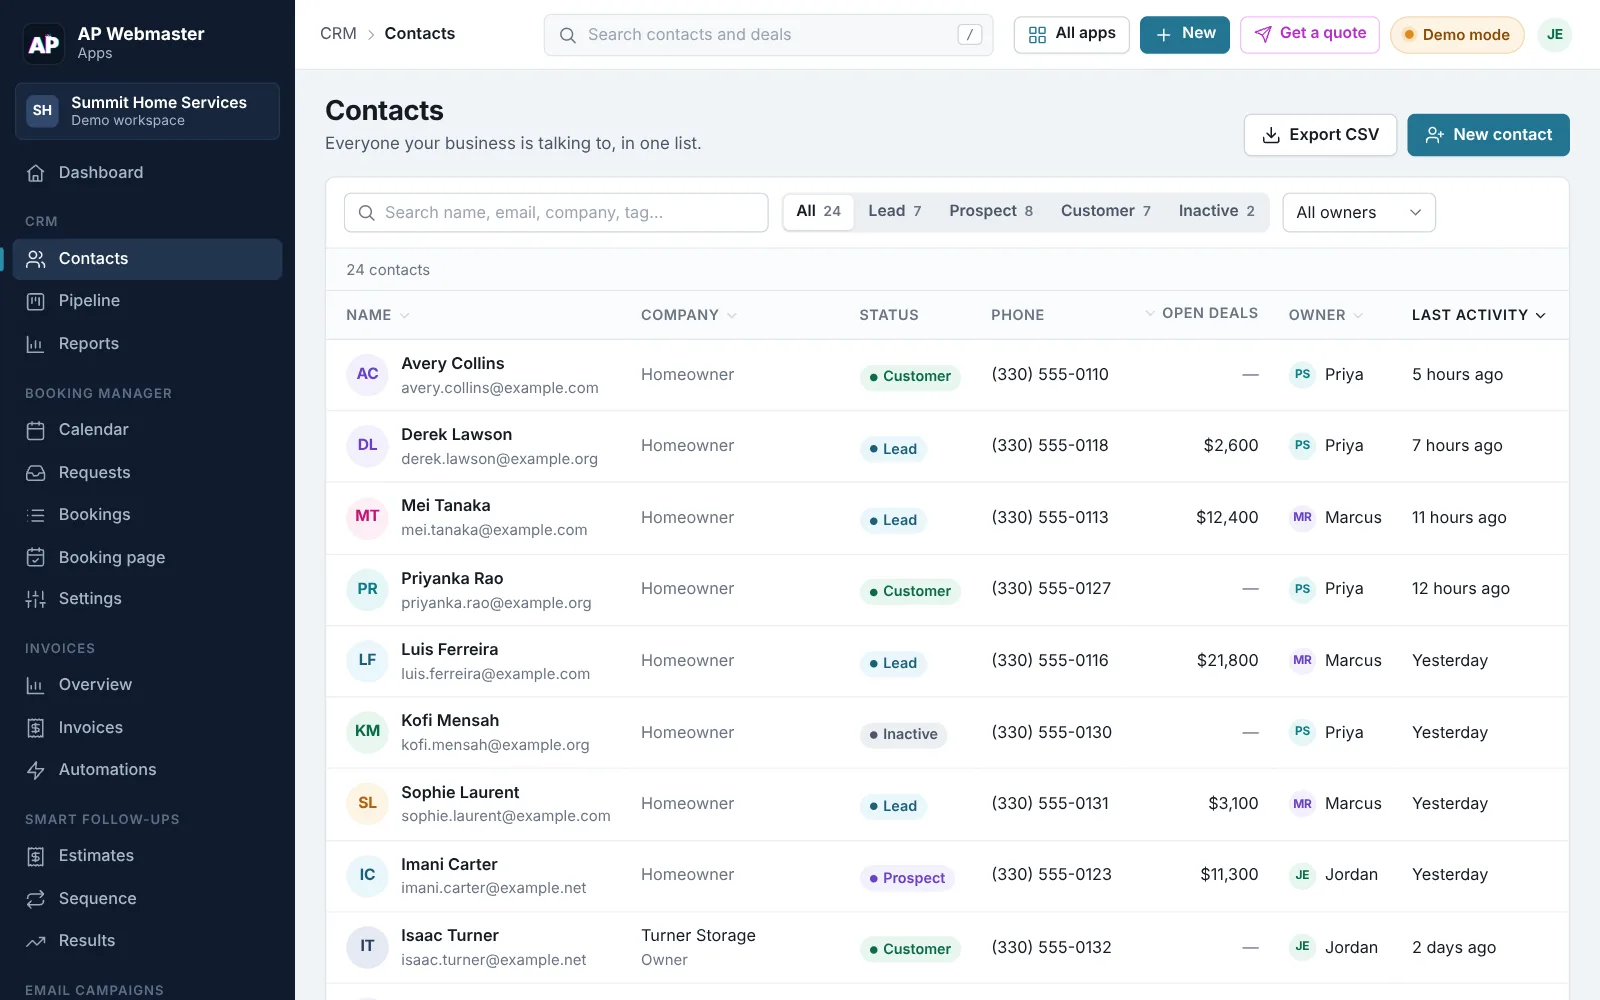
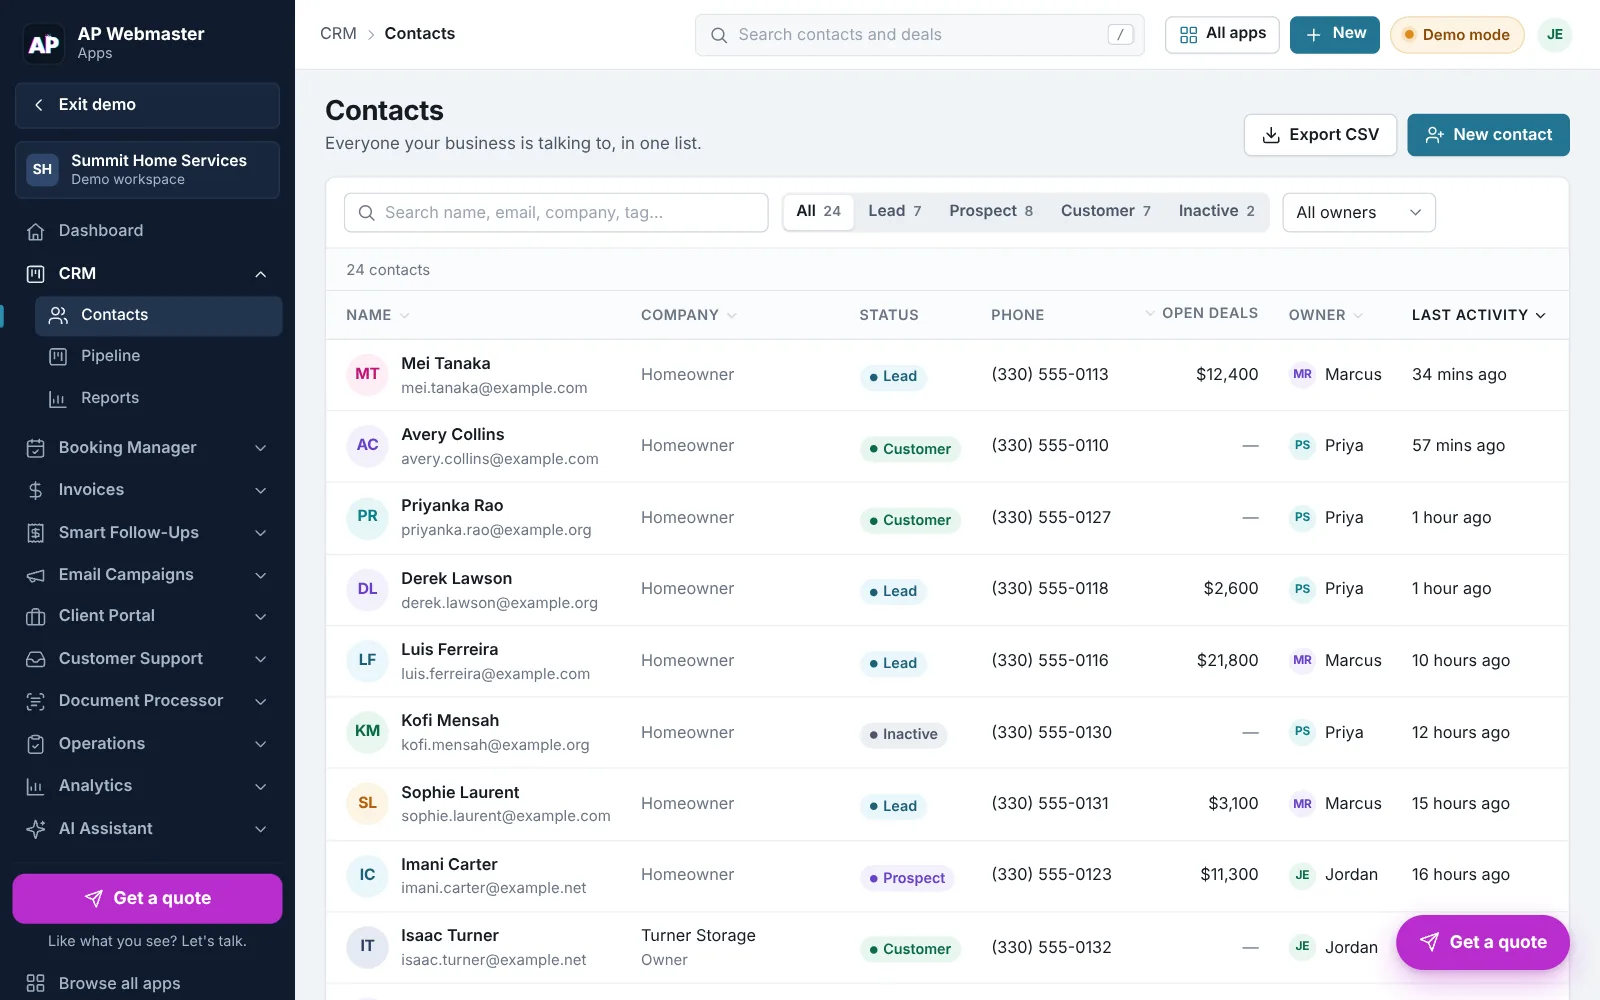
Demo: app dropdowns in the sidebar, Exit demo, Get a quote buttons, endless sample bookings
- Sidebar groups each app into a dropdown; only the current app opens
- Exit demo sits at the top of the sidebar, and as an Exit chip on phones
- Get a quote pinned at the sidebar bottom plus a floating button
- Booking calendar fills any empty work day with sample visits, so every week has entries

diff --git a/assets/js/core/shell.js b/assets/js/core/shell.js
@@ -17,6 +17,7 @@ let dashboardView = null;
 let root;
 let current = null;
 let renderQueued = false;
+let navSlug = null;
 
 /* ---------------- Module registry ---------------- */
 
@@ -64,7 +65,7 @@ function navItems() {
 function sidebar() {
   const items = navItems();
   const live = items.filter((i) => i.group);
-  const groups = [...new Set(live.map((i) => i.group))];
+  const slugs = [...new Set(live.map((i) => i.slug))];
   const soon = (CONFIG.apps || []).filter((a) => a.status !== 'demo');
   const b = store.get().business;
   return html`<aside class="apwa-sidebar" id="apwa-sidebar" aria-label="Main navigation">
@@ -73,21 +74,28 @@ function sidebar() {
       <span class="apwa-brand__mark" aria-hidden="true"><img src="${CONFIG.assetsUrl}assets/img/ap-mark.png" alt=""></span>
       <span class="apwa-brand__text"><strong>AP Webmaster</strong><span>Apps</span></span>
     </div>
+    <a class="apwa-exit" href="${suiteUrl()}" title="Exit demo">${icon('chevron-left')}<span>Exit demo</span></a>
     <div class="apwa-workspace" title="Fictional demo business">
       <span class="apwa-workspace__mark" aria-hidden="true">${b.name.split(' ').map((w) => w[0]).slice(0, 2).join('')}</span>
       <span class="apwa-workspace__text"><strong>${b.name}</strong><span>Demo workspace</span></span>
     </div>
     <nav class="apwa-nav">
       <a class="apwa-nav__item" data-nav="home" href="${items[0].href}" title="Dashboard">${icon('home')}<span>Dashboard</span></a>
-      ${groups.map((g) => html`<div class="apwa-nav__group">${g}</div>
-        ${live.filter((i) => i.group === g).map((i) => html`<a class="apwa-nav__item" data-nav="${i.id}" href="${i.href}" title="${i.label}">${icon(i.icon)}<span>${i.label}</span></a>`)}`)}
+      ${slugs.map((slug) => {
+        const m = appMeta(slug) || {};
+        return html`<details class="apwa-nav__app" data-app="${slug}">
+          <summary class="apwa-nav__item apwa-nav__head" title="${m.shortName}">${icon(m.icon || 'grid')}<span>${m.shortName}</span>${icon('chevron-down', 'apwa-nav__chev')}</summary>
+          <div class="apwa-nav__sub">${live.filter((i) => i.slug === slug).map((i) => html`<a class="apwa-nav__item" data-nav="${i.id}" href="${i.href}" title="${i.label}">${icon(i.icon)}<span>${i.label}</span></a>`)}</div>
+        </details>`;
+      })}
       ${soon.length ? html`<div class="apwa-nav__group">More apps</div>
         ${soon.map((a) => html`<a class="apwa-nav__item is-soon" data-nav="app:${a.slug}" href="${router.href(`${a.slug}/`)}" title="${a.name} (coming soon)">${icon(a.icon)}<span>${a.shortName || a.name}</span><em class="apwa-soon">Soon</em></a>`)}` : ''}
     </nav>
     <div class="apwa-sidebar__foot">
+      <a class="apwa-sidequote" href="${quoteHref()}" data-quote title="Get a quote">${icon('send')}<span>Get a quote</span></a>
+      <p class="apwa-sidequote__note">Like what you see? Let's talk.</p>
       <button type="button" class="apwa-nav__item" data-action="launcher" aria-haspopup="dialog" title="Browse all apps">${icon('grid')}<span>Browse all apps</span></button>
       <button type="button" class="apwa-nav__item" data-action="reset" title="Reset demo data">${icon('refresh')}<span>Reset demo data</span></button>
-      <a class="apwa-nav__item apwa-nav__item--exit" href="${suiteUrl()}" title="Exit demo">${icon('log-out')}<span>Exit demo</span></a>
     </div>
   </aside>`;
 }
@@ -105,6 +113,7 @@ function topbar() {
     <div class="apwa-topbar__left">
       <a class="apwa-topbar__back apwa-show-phone" href="#" hidden aria-label="Back">${icon('chevron-left')}</a>
       <button type="button" class="apwa-iconbtn apwa-topbar__menu apwa-show-phone" data-action="drawer" aria-label="Open menu" aria-controls="apwa-sidebar" aria-expanded="false">${icon('menu')}</button>
+      <a class="apwa-topbar__exit apwa-show-phone" href="${suiteUrl()}" aria-label="Exit demo">${icon('chevron-left')}<span>Exit</span></a>
       <nav class="apwa-crumbs" aria-label="Breadcrumb"></nav>
     </div>
     <div class="apwa-search apwa-hide-phone" role="search">
@@ -117,7 +126,6 @@ function topbar() {
       <button type="button" class="apwa-btn apwa-btn--secondary apwa-btn--sm apwa-topbar__apps" data-action="launcher" aria-haspopup="dialog" aria-label="Browse all apps">${icon('grid')}<span class="apwa-hide-phone">All apps</span><span class="apwa-topbar__apps-short">Apps</span></button>
       <button type="button" class="apwa-iconbtn apwa-show-phone" data-action="search" aria-label="Search">${icon('search')}</button>
       <button type="button" class="apwa-btn apwa-btn--primary apwa-btn--sm apwa-hide-phone" data-action="quick-add" aria-haspopup="menu" aria-expanded="false">${icon('plus')}<span>New</span></button>
-      <a class="apwa-btn apwa-btn--sm apwa-topbar__quote apwa-hide-phone" href="${quoteHref()}" data-quote>${icon('send')}<span>Get a quote</span></a>
       <button type="button" class="apwa-demo-pill" data-action="demo-info" aria-haspopup="dialog">
         <i aria-hidden="true"></i><span>Demo<span class="apwa-hide-phone"> mode</span></span>
       </button>
@@ -159,6 +167,7 @@ export function mount(container) {
     ${tabbar()}
     <div class="apwa-drawer-scrim" data-action="drawer-close" hidden></div>
     <button type="button" class="apwa-fab apwa-show-phone" hidden></button>
+    <a class="apwa-quotefab" href="${quoteHref()}" data-quote>${icon('send')}<span>Get a quote</span></a>
   </div>`;
 
   bindGlobal();
@@ -201,8 +210,8 @@ function render(ev) {
   }
   current = { ...v, slug: r.slug, navId: r.navId || (r.slug ? `app:${r.slug}` : 'home') };
 
-  const quote = $('[data-quote]', root);
-  if (quote) quote.href = quoteHref(r.slug);
+  $$('[data-quote]', root).forEach((q) => { q.href = quoteHref(r.slug); });
+  root.firstElementChild.dataset.app = r.slug || 'home';
 
   // Document title.
   const meta = appMeta(r.slug);
@@ -255,8 +264,13 @@ function render(ev) {
     try { v.mount(body, ctx); } catch (err) { console.error(err); }
   }
 
-  // Active nav.
+  // Active nav: open the current app's group when moving between apps.
   renderTabbar(r.slug);
+  if (r.slug !== navSlug) {
+    navSlug = r.slug;
+    $$('.apwa-nav__app', root).forEach((d) => { d.open = d.dataset.app === r.slug; });
+  }
+  $$('.apwa-nav__app', root).forEach((d) => d.classList.toggle('is-current', d.dataset.app === r.slug));
   $$('[data-nav]', root).forEach((a) => {
     const active = a.dataset.nav === current.navId;
     a.classList.toggle('is-active', active);

diff --git a/assets/css/app.css b/assets/css/app.css
@@ -669,3 +669,44 @@ html.apwa-noscroll, html.apwa-noscroll body { overflow: hidden; }
 .apwa-topbar__quote { gap: 6px; color: var(--apwa-accent-600, #b92ccd); background: #fff; border: 1px solid color-mix(in srgb, var(--apwa-accent-500, #dc3ff0) 35%, transparent); }
 .apwa-topbar__quote:hover { background: color-mix(in srgb, var(--apwa-accent-500, #dc3ff0) 8%, #fff); color: var(--apwa-accent-600, #b92ccd); }
 .apwa-topbar__quote .apwa-icon { width: 15px; height: 15px; }
+
+/* Exit demo, app dropdowns and Get a quote (sidebar + floating button) */
+.apwa-exit { display: flex; align-items: center; gap: 8px; margin: 0 2px 10px; padding: 8px 10px; border-radius: var(--apwa-radius); background: var(--apwa-navy-800); border: 1px solid var(--apwa-navy-700); color: #fff !important; font-size: 13px; font-weight: 600; }
+.apwa-exit:hover { background: var(--apwa-navy-700); }
+.apwa-exit .apwa-icon { width: 16px; height: 16px; flex: none; }
+.apwa-nav__app > summary { list-style: none; cursor: pointer; font-weight: 600; }
+.apwa-nav__app > summary::-webkit-details-marker { display: none; }
+.apwa-nav__app.is-current > summary, .apwa-nav__app[open] > summary { color: #fff !important; }
+.apwa-nav__chev { width: 15px !important; height: 15px !important; opacity: 0.6; flex: none; transition: transform var(--apwa-fast); }
+.apwa-nav__app[open] > summary .apwa-nav__chev { transform: rotate(180deg); }
+.apwa-nav__sub { display: flex; flex-direction: column; gap: 1px; padding: 1px 0 6px 18px; }
+.apwa-nav__sub .apwa-nav__item { font-size: 12.5px; }
+.apwa-nav__sub .apwa-nav__item.is-active::before { left: -28px; }
+.apwa-sidequote { display: flex; align-items: center; justify-content: center; gap: 8px; padding: 10px; border-radius: 10px; background: var(--apwa-accent-600, #b92ccd); color: #fff !important; font-weight: 700; font-size: 14px; }
+.apwa-sidequote:hover { background: var(--apwa-accent-500, #dc3ff0); }
+.apwa-sidequote .apwa-icon { width: 16px; height: 16px; }
+.apwa-sidequote__note { text-align: center; font-size: 11.5px; color: var(--apwa-navy-300); margin: 5px 0 8px; }
+.apwa-quotefab { position: fixed; z-index: 45; right: max(24px, var(--apwa-safe-right)); bottom: max(24px, var(--apwa-safe-bottom)); display: flex; align-items: center; gap: 8px; padding: 12px 18px; border-radius: 999px; background: var(--apwa-accent-600, #b92ccd); color: #fff !important; font-weight: 700; font-size: 14px; box-shadow: 0 10px 24px rgba(185, 44, 205, 0.35), 0 2px 6px rgba(16, 24, 40, 0.18); }
+.apwa-quotefab:hover { background: var(--apwa-accent-500, #dc3ff0); }
+.apwa-quotefab .apwa-icon { width: 17px; height: 17px; }
+@media (max-width: 1199.98px) {
+	.apwa-exit { width: 44px; height: 40px; justify-content: center; padding: 0; margin: 0 0 10px; }
+	.apwa-exit span, .apwa-nav__chev, .apwa-sidequote span, .apwa-sidequote__note { display: none; }
+	.apwa-nav__app { width: 100%; display: flex; flex-direction: column; align-items: center; }
+	.apwa-nav__sub { padding: 2px 0 6px; align-items: center; }
+	.apwa-nav__sub .apwa-nav__item.is-active::before { left: -8px; }
+	.apwa-sidequote { width: 44px; height: 40px; padding: 0; margin-bottom: 6px; }
+}
+@media (max-width: 767.98px) {
+	.apwa-exit { width: auto; height: auto; justify-content: flex-start; padding: 10px; margin: 0 2px 10px; }
+	.apwa-exit span, .apwa-sidequote span { display: block; }
+	.apwa-sidequote__note { display: block; }
+	.apwa-nav__chev { display: inline-block; }
+	.apwa-nav__app { align-items: stretch; }
+	.apwa-nav__sub { padding: 1px 0 6px 18px; align-items: stretch; }
+	.apwa-nav__sub .apwa-nav__item.is-active::before { left: -28px; }
+	.apwa-sidequote { width: auto; height: auto; padding: 12px; margin-bottom: 0; }
+	.apwa-topbar__exit.apwa-show-phone { display: flex !important; align-items: center; gap: 1px; height: 30px; padding: 0 10px 0 5px; border-radius: 999px; background: var(--apwa-navy-900); color: #fff !important; font-size: 12.5px; font-weight: 600; flex: none; }
+	.apwa-topbar__exit .apwa-icon { width: 15px; height: 15px; }
+	.apwa-quotefab { left: max(16px, var(--apwa-safe-left)); right: auto; bottom: calc(var(--apwa-tabbar-h) + var(--apwa-safe-bottom) + 18px); padding: 11px 16px; font-size: 13.5px; }
+}

diff --git a/apps/booking-manager/booking.js b/apps/booking-manager/booking.js
@@ -57,6 +57,41 @@ const isWorkDay = (d) => cfg().hours.days.includes(new Date(d).getDay());
 const priceLabel = (s) => (s.price ? money(s.price) : 'Free');
 const statusBadge = (s) => badge((STATUS[s] || STATUS.confirmed).label, (STATUS[s] || STATUS.confirmed).tone, { dot: true });
 
+/* Sample visits for any work day someone browses to that has none yet, so the
+   demo calendar never runs dry, whichever week or month they look at. */
+const FILL_SLOTS = { u1: [[8, 0], [10, 30], [13, 0], [15, 30]], u2: [[9, 0], [11, 30], [14, 0], [16, 0]], u3: [[8, 30], [12, 0], [14, 30], [16, 0]] };
+function fillDays(from, count) {
+  const st = store.get();
+  if (!st.booking || !st.appointments) return;
+  const before = st.booking.filledDays || [];
+  const filled = new Set(before);
+  const people = store.all('contacts').filter((c) => c.status !== 'inactive');
+  const rows = [];
+  for (let i = 0; i < count && people.length; i += 1) {
+    const day = startOfDay(addDays(from, i));
+    const key = `${day.getFullYear()}-${day.getMonth() + 1}-${day.getDate()}`;
+    if (filled.has(key) || !isWorkDay(day) || dayAppts(day).length) continue;
+    filled.add(key);
+    let seed = day.getFullYear() * 10000 + (day.getMonth() + 1) * 100 + day.getDate();
+    const r = () => ((seed = (seed * 1664525 + 1013904223) >>> 0) / 4294967296);
+    staffIds().forEach((staffId) => {
+      const slots = FILL_SLOTS[staffId] || FILL_SLOTS.u1;
+      const n = day.getDay() === 6 ? (r() > 0.5 ? 1 : 0) : 1 + (r() > 0.45 ? 1 : 0);
+      [0, 1, 2, 3].sort(() => r() - 0.5).slice(0, n).forEach((k) => {
+        const start = new Date(day);
+        start.setHours(slots[k][0], slots[k][1], 0, 0);
+        const svc = services()[Math.floor(r() * services().length)];
+        const x = r();
+        const status = start.getTime() + svc.minutes * MIN < Date.now() ? (x < 0.08 ? 'noshow' : x < 0.15 ? 'cancelled' : 'completed') : 'confirmed';
+        const made = new Date(Math.min(Date.now(), start.getTime()) - (2 + Math.floor(r() * 9)) * 86400000).toISOString();
+        rows.push({ id: uid('app'), contactId: people[Math.floor(r() * people.length)].id, serviceId: svc.id, staffId, start: start.toISOString(), minutes: svc.minutes, status, source: r() < 0.5 ? 'Online booking' : 'Phone', notes: '', seriesId: '', createdAt: made, updatedAt: made });
+      });
+    });
+  }
+  if (filled.size === before.length) return;
+  store.quietly((s) => { s.booking.filledDays = [...filled].slice(-500); s.appointments.push(...rows); });
+}
+
 function dayAppts(day, staff = 'all') {
   return appts()
     .filter((a) => sameDay(a.start, day) && (staff === 'all' || a.staffId === staff))
@@ -490,8 +525,10 @@ function agenda() {
 }
 
 function calendarView(ctx) {
-  if (ctx.query.appt) setTimeout(() => { router.go('booking-manager/calendar', { replace: true }); openAppt(ctx.query.appt); }, 0);
   if (!calUI.view) calUI.view = 'week';
+  fillDays(startOfDay(new Date()), 14);
+  fillDays(startOfWeek(calUI.anchor), 7);
+  if (ctx.query.appt) setTimeout(() => { router.go('booking-manager/calendar', { replace: true }); openAppt(ctx.query.appt); }, 0);
   const phone = isPhone();
   const today = new Date();
   const wk = startOfWeek(today);
@@ -609,6 +646,7 @@ function requestsView() {
 const listUI = { tab: 'upcoming', q: '' };
 
 function bookingsView(ctx) {
+  fillDays(startOfDay(new Date()), 14);
   if (ctx.query.appt) setTimeout(() => { router.go('booking-manager/bookings', { replace: true }); openAppt(ctx.query.appt); }, 0);
   const now = Date.now();
   const groups = {
